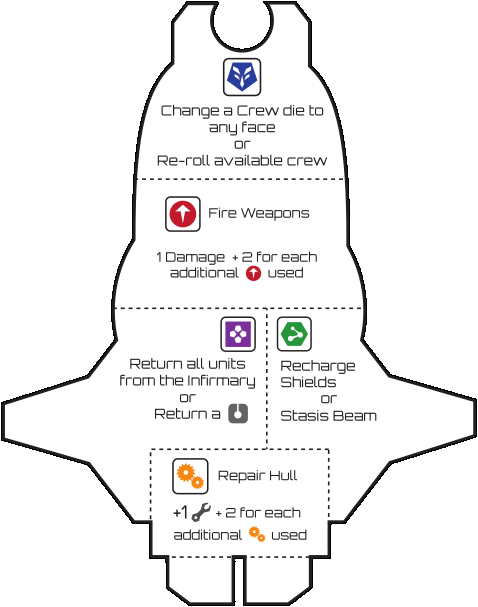
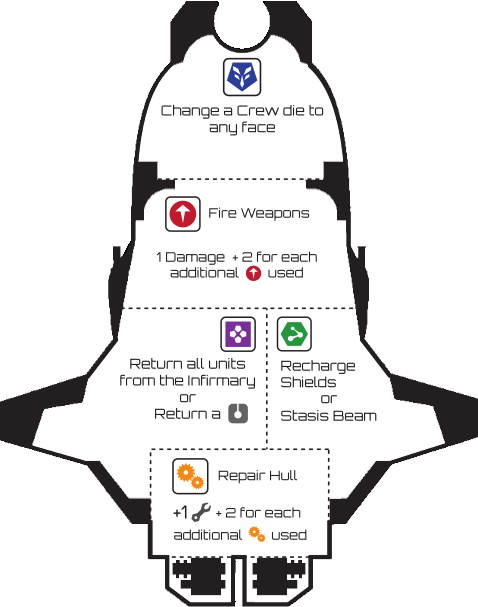
feat: overhaul ship graphics

diff --git a/html/index.html b/html/index.html
@@ -16,7 +16,6 @@
         <script type="text/javascript" src = "../scripts/highlight.js"></script>
         <div id = "ship">
             <img src="../assets/Ship.png" id = "ship">
-            <img src="../assets/ShipOutline.svg" id = "shipOutline">
             <img src="../assets/ShieldHurt.png" id = "shieldHurt">
             <div id = "crew"></div>
             <div id = "fire"></div>

diff --git a/styles/ship.css b/styles/ship.css
@@ -1,15 +1,8 @@
-div#ship > img#ship, div#ship > img#shieldHurt, div#ship > img#shipOutline
+div#ship > img#ship, div#ship > img#shieldHurt
 {
     object-fit: contain;
     max-height: 75vh;
     width: 100%;
-}
-
-div#ship > img#shipOutline
-{
-    position: absolute;
-    top: 0;
-    left: 0;
 }
 
 div#ship

diff --git a/scripts/highlight.js b/scripts/highlight.js
@@ -4,7 +4,7 @@ function highlight(element, id, color) {
         left: ${element.offset().left}px;
         width: ${element.width()}px;
         height: ${element.height()}px;
-        outline: 10px solid ${color};
+        outline: 5px solid ${color};
         border-radius: 50px;
     "></div>`
 
